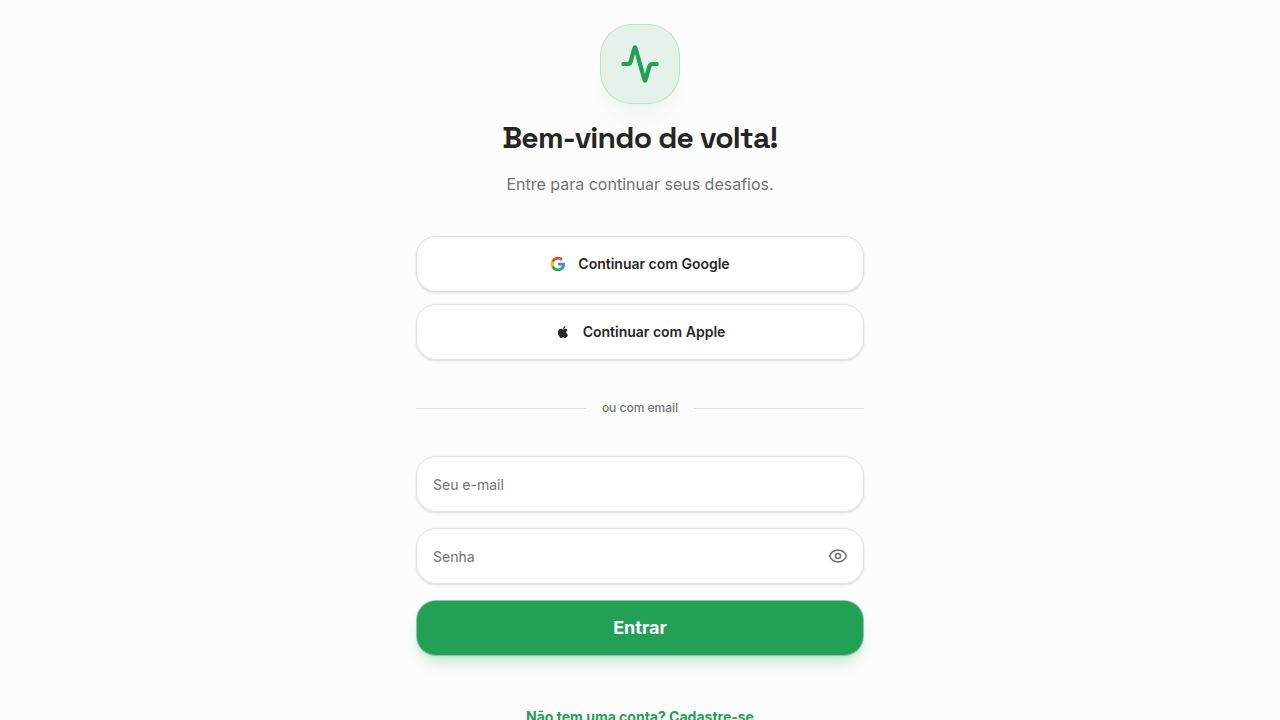
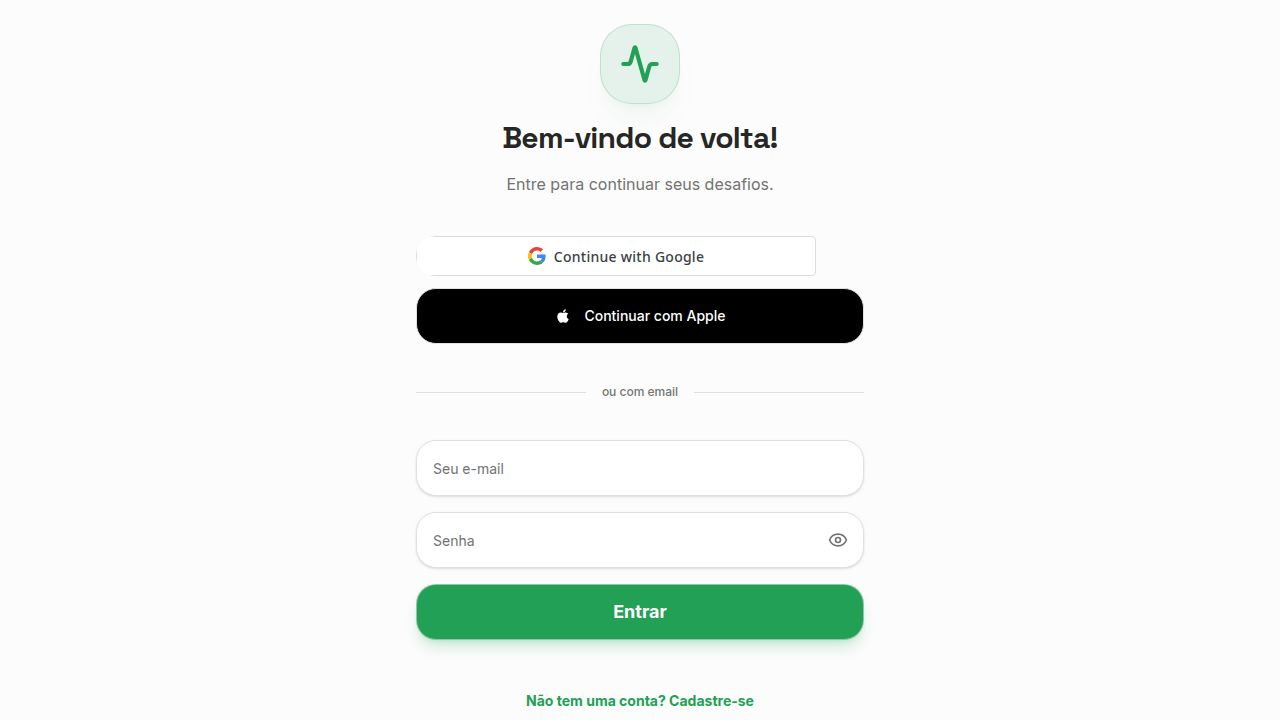
Improve login button functionality and appearance on the login page
Update login page to standardize Google and Apple sign-in flows, ensuring both buttons trigger the Google authentication prompt for a consistent user experience.

Replit-Commit-Author: Agent
Replit-Commit-Session-Id: 8621966c-8f4a-4f9b-8fd8-8bcba40b9099
Replit-Commit-Checkpoint-Type: full_checkpoint
Replit-Commit-Event-Id: 7be719d2-aa48-4491-9eb2-fc8831df7991
Replit-Commit-Screenshot-Url: https://storage.googleapis.com/screenshot-production-us-central1/b7ed474f-e212-48cf-a152-cf1873362c45/8621966c-8f4a-4f9b-8fd8-8bcba40b9099/Y4yeg9K
Replit-Helium-Checkpoint-Created: true

diff --git a/client/src/pages/login.tsx b/client/src/pages/login.tsx
@@ -146,11 +146,12 @@ export default function Login() {
     });
 
     if (googleBtnRef.current) {
+      googleBtnRef.current.innerHTML = "";
       window.google.accounts.id.renderButton(googleBtnRef.current, {
         type: "standard",
         theme: "outline",
         size: "large",
-        width: googleBtnRef.current.offsetWidth,
+        width: googleBtnRef.current.offsetWidth || 320,
         text: "continue_with",
         logo_alignment: "center",
       });
@@ -158,10 +159,18 @@ export default function Login() {
     }
   }, [handleGoogleCallback, isLogin]);
 
-  const handleAppleLogin = () => {
+  const triggerGoogleSignIn = () => {
     if (!window.google) {
       setError("Google Sign-In ainda está carregando. Tente novamente.");
       return;
+    }
+    if (googleBtnRef.current) {
+      const clickTarget = googleBtnRef.current.querySelector('[role="button"]') as HTMLElement
+        || googleBtnRef.current.querySelector("div[style]") as HTMLElement;
+      if (clickTarget) {
+        clickTarget.click();
+        return;
+      }
     }
     window.google.accounts.id.prompt();
   };
@@ -273,7 +282,7 @@ export default function Login() {
           />
 
           <button
-            onClick={handleAppleLogin}
+            onClick={triggerGoogleSignIn}
             disabled={socialLoading}
             className="w-full h-14 rounded-2xl border border-border bg-black dark:bg-white flex items-center justify-center gap-3 text-sm font-medium text-white dark:text-black hover:opacity-90 transition-all disabled:opacity-50"
             data-testid="button-apple-login"
